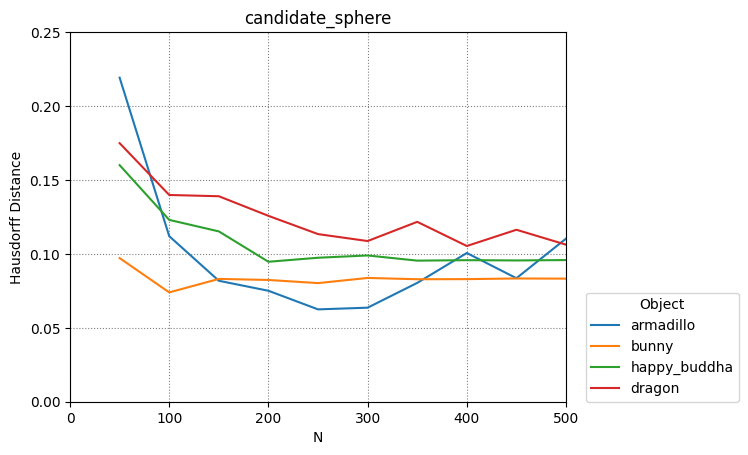
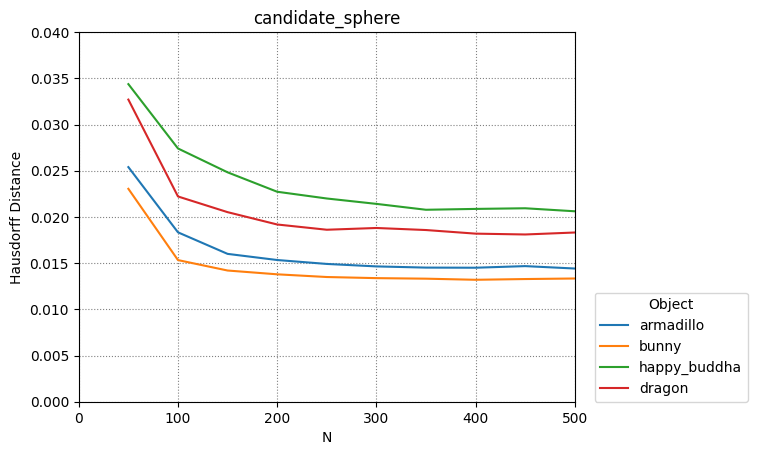
Update hausdorff

diff --git a/ray_field/prescan_cone.py b/ray_field/prescan_cone.py
@@ -71,7 +71,7 @@ class PrescanCone(Algorithm):
                 intersections, intersection_normals = PrescanCone._targeted_scan(model, origins, dirs)
         
                 mesh = utils.poisson_surface_reconstruction(intersections, intersection_normals, PrescanCone.poisson_depth)
-                distance = utils.chamfer_distance_to_stanford(model_name, mesh, PrescanCone.chamfer_samples)
+                distance = utils.chamfer_distance_to_stanford(model_name, mesh, PrescanCone.dist_samples)
 
                 distances.append(distance)
                 print(f'{distance:.6f}')
@@ -98,11 +98,14 @@ class PrescanCone(Algorithm):
                 intersections, intersection_normals = PrescanCone._targeted_scan(model, origins, dirs)
         
                 mesh = utils.poisson_surface_reconstruction(intersections, intersection_normals, PrescanCone.poisson_depth)
-                distance = utils.hausdorff_distance_to_stanford(model_name, mesh)
+                distance = utils.hausdorff_distance_to_stanford(model_name, mesh, PrescanCone.dist_samples)
 
                 distances.append(distance)
                 print(f'{distance:.6f}')
                 torch.cuda.empty_cache()
+            
+            del origins, dirs, broad_intersections
+            torch.cuda.empty_cache()
         
         del model
         torch.cuda.empty_cache()
@@ -238,7 +241,7 @@ class PrescanCone(Algorithm):
 
                     torch.cuda.synchronize()
                     time = timer() - start_time
-                    distance = utils.chamfer_distance_to_stanford(model_name, mesh, PrescanCone.chamfer_samples)
+                    distance = utils.chamfer_distance_to_stanford(model_name, mesh, PrescanCone.dist_samples)
 
                     times[i] = times[i] + time
                     distances[i] = distances[i] + distance
@@ -315,7 +318,7 @@ class PrescanCone(Algorithm):
                     intersections, intersection_normals = PrescanCone._targeted_scan(model, origins, dirs)
             
                     mesh = utils.poisson_surface_reconstruction(intersections, intersection_normals, PrescanCone.poisson_depth)
-                    distance = utils.chamfer_distance_to_stanford(model_name, mesh, PrescanCone.chamfer_samples)
+                    distance = utils.chamfer_distance_to_stanford(model_name, mesh, PrescanCone.dist_samples)
 
                     prescan_distances.append(distance)
                     print(f'{distance:.6f}')

diff --git a/ray_field/baseline_device.py b/ray_field/baseline_device.py
@@ -57,7 +57,7 @@ class BaselineDevice(Algorithm):
                 origins, dirs = utils.generate_sphere_rays_tensor(N, device)
                 intersections, intersection_normals = BaselineDevice._baseline_scan(model, origins, dirs)
                 mesh = utils.poisson_surface_reconstruction(intersections, intersection_normals, BaselineDevice.poisson_depth)
-                distance = utils.chamfer_distance_to_stanford(model_name, mesh, BaselineDevice.chamfer_samples)
+                distance = utils.chamfer_distance_to_stanford(model_name, mesh, BaselineDevice.dist_samples)
 
                 distances.append(distance)
                 print(f'{distance:.6f}')
@@ -81,7 +81,7 @@ class BaselineDevice(Algorithm):
                 origins, dirs = utils.generate_sphere_rays_tensor(N, device)
                 intersections, intersection_normals = BaselineDevice._baseline_scan(model, origins, dirs)
                 mesh = utils.poisson_surface_reconstruction(intersections, intersection_normals, BaselineDevice.poisson_depth)
-                distance = utils.hausdorff_distance_to_stanford(model_name, mesh)
+                distance = utils.hausdorff_distance_to_stanford(model_name, mesh, BaselineDevice.dist_samples)
 
                 distances.append(distance)
                 print(f'{distance:.6f}')
@@ -208,7 +208,7 @@ class BaselineDevice(Algorithm):
 
                     torch.cuda.synchronize()
                     time = timer() - start_time
-                    distance = utils.chamfer_distance_to_stanford(model_name, mesh, BaselineDevice.chamfer_samples)
+                    distance = utils.chamfer_distance_to_stanford(model_name, mesh, BaselineDevice.dist_samples)
 
                     times[i] = times[i] + time
                     distances[i] = distances[i] + distance

diff --git a/ray_field/baseline.py b/ray_field/baseline.py
@@ -57,7 +57,7 @@ class Baseline(Algorithm):
                 origins, dirs = utils.generate_sphere_rays(N, device)
                 intersections, intersection_normals = Baseline._baseline_scan(model, origins, dirs)
                 mesh = utils.poisson_surface_reconstruction(intersections, intersection_normals, Baseline.poisson_depth)
-                distance = utils.chamfer_distance_to_stanford(model_name, mesh, Baseline.chamfer_samples)
+                distance = utils.chamfer_distance_to_stanford(model_name, mesh, Baseline.dist_samples)
 
                 distances.append(distance)
                 print(f'{distance:.6f}')
@@ -81,7 +81,7 @@ class Baseline(Algorithm):
                 origins, dirs = utils.generate_sphere_rays(N, device)
                 intersections, intersection_normals = Baseline._baseline_scan(model, origins, dirs)
                 mesh = utils.poisson_surface_reconstruction(intersections, intersection_normals, Baseline.poisson_depth)
-                distance = utils.hausdorff_distance_to_stanford(model_name, mesh)
+                distance = utils.hausdorff_distance_to_stanford(model_name, mesh, Baseline.dist_samples)
 
                 distances.append(distance)
                 print(f'{distance:.6f}')
@@ -208,7 +208,7 @@ class Baseline(Algorithm):
 
                     torch.cuda.synchronize()
                     time = timer() - start_time
-                    distance = utils.chamfer_distance_to_stanford(model_name, mesh, Baseline.chamfer_samples)
+                    distance = utils.chamfer_distance_to_stanford(model_name, mesh, Baseline.dist_samples)
 
                     times[i] = times[i] + time
                     distances[i] = distances[i] + distance

diff --git a/ray_field/candidate_sphere.py b/ray_field/candidate_sphere.py
@@ -72,7 +72,7 @@ class CandidateSphere(Algorithm):
                 intersections, intersection_normals = CandidateSphere._targeted_scan(model, origins, dirs)
         
                 mesh = utils.poisson_surface_reconstruction(intersections, intersection_normals, CandidateSphere.poisson_depth)
-                distance = utils.chamfer_distance_to_stanford(model_name, mesh, CandidateSphere.chamfer_samples)
+                distance = utils.chamfer_distance_to_stanford(model_name, mesh, CandidateSphere.dist_samples)
 
                 distances.append(distance)
                 print(f'{distance:.6f}')
@@ -100,7 +100,7 @@ class CandidateSphere(Algorithm):
                 intersections, intersection_normals = CandidateSphere._targeted_scan(model, origins, dirs)
         
                 mesh = utils.poisson_surface_reconstruction(intersections, intersection_normals, CandidateSphere.poisson_depth)
-                distance = utils.hausdorff_distance_to_stanford(model_name, mesh)
+                distance = utils.hausdorff_distance_to_stanford(model_name, mesh, CandidateSphere.dist_samples)
 
                 distances.append(distance)
                 print(f'{distance:.6f}')
@@ -243,7 +243,7 @@ class CandidateSphere(Algorithm):
 
                     torch.cuda.synchronize()
                     time = timer() - start_time
-                    distance = utils.chamfer_distance_to_stanford(model_name, mesh, CandidateSphere.chamfer_samples)
+                    distance = utils.chamfer_distance_to_stanford(model_name, mesh, CandidateSphere.dist_samples)
 
                     times[i] = times[i] + time
                     distances[i] = distances[i] + distance

diff --git a/ray_field/utils.py b/ray_field/utils.py
@@ -296,23 +296,24 @@ def chamfer_distance_to_stanford(model_name: CheckpointName, mesh: TriangleMesh,
 
     return chamfer_distance(stanford_samples, generated_samples)
 
-def hausdorff_distance_to_stanford(model_name: CheckpointName, mesh: TriangleMesh) -> float:
+def hausdorff_distance_to_stanford(model_name: CheckpointName, mesh: TriangleMesh, samples: int) -> float:
     """Measures the Hausdorff distance between the generated mesh and the Stanford mesh.
-    Compares the vertices of the two meshes.
+    Samples the two surfaces.
 
     Args:
         model_name (CheckpointName): Valid model name of the Stanford mesh
         mesh (TriangleMesh): The generated mesh
+        samples (int): Number of surface samples to compare
 
     Returns:
         float: The Hausdorff distance
     """    
     stanford_mesh = load_and_scale_stanford_mesh(model_name)
 
-    stanford_vertices = stanford_mesh.vertices
-    generated_vertices = np.asarray(mesh.vertices)
+    stanford_samples = trimesh.sample.sample_surface_even(stanford_mesh, samples)[0]
+    generated_samples = np.asarray(mesh.sample_points_uniformly(samples).points)
 
-    return hausdorff_distance(stanford_vertices, generated_vertices)
+    return chamfer_distance(stanford_samples, generated_samples)
 
 def generate_rays_in_cone(points: torch.Tensor, angles: torch.Tensor, device: str) -> tuple[torch.Tensor, torch.Tensor]:
     N = points.shape[0]

diff --git a/analysis/hausdorff.py b/analysis/hausdorff.py
@@ -49,7 +49,7 @@ def plot_results(object_names: list[str], N_values: list[int], distances: list[l
     
     ax.set_ylabel('Hausdorff Distance')
     ax.set_xlim([0, N_values[-1]])
-    ax.set_ylim([0, 0.25])
+    ax.set_ylim([0, 0.04])
     ax.set_xlabel('N')
     ax.set_title(algorithm)
     ax.legend(loc=(1.04, 0), title='Object')

diff --git a/ray_field/algorithm.py b/ray_field/algorithm.py
@@ -4,7 +4,7 @@ from open3d.geometry import TriangleMesh
 
 class Algorithm(ABC):
     poisson_depth: int = 8
-    chamfer_samples: int = 30000
+    dist_samples: int = 30000
     time_samples: int = 5
 
     @staticmethod
